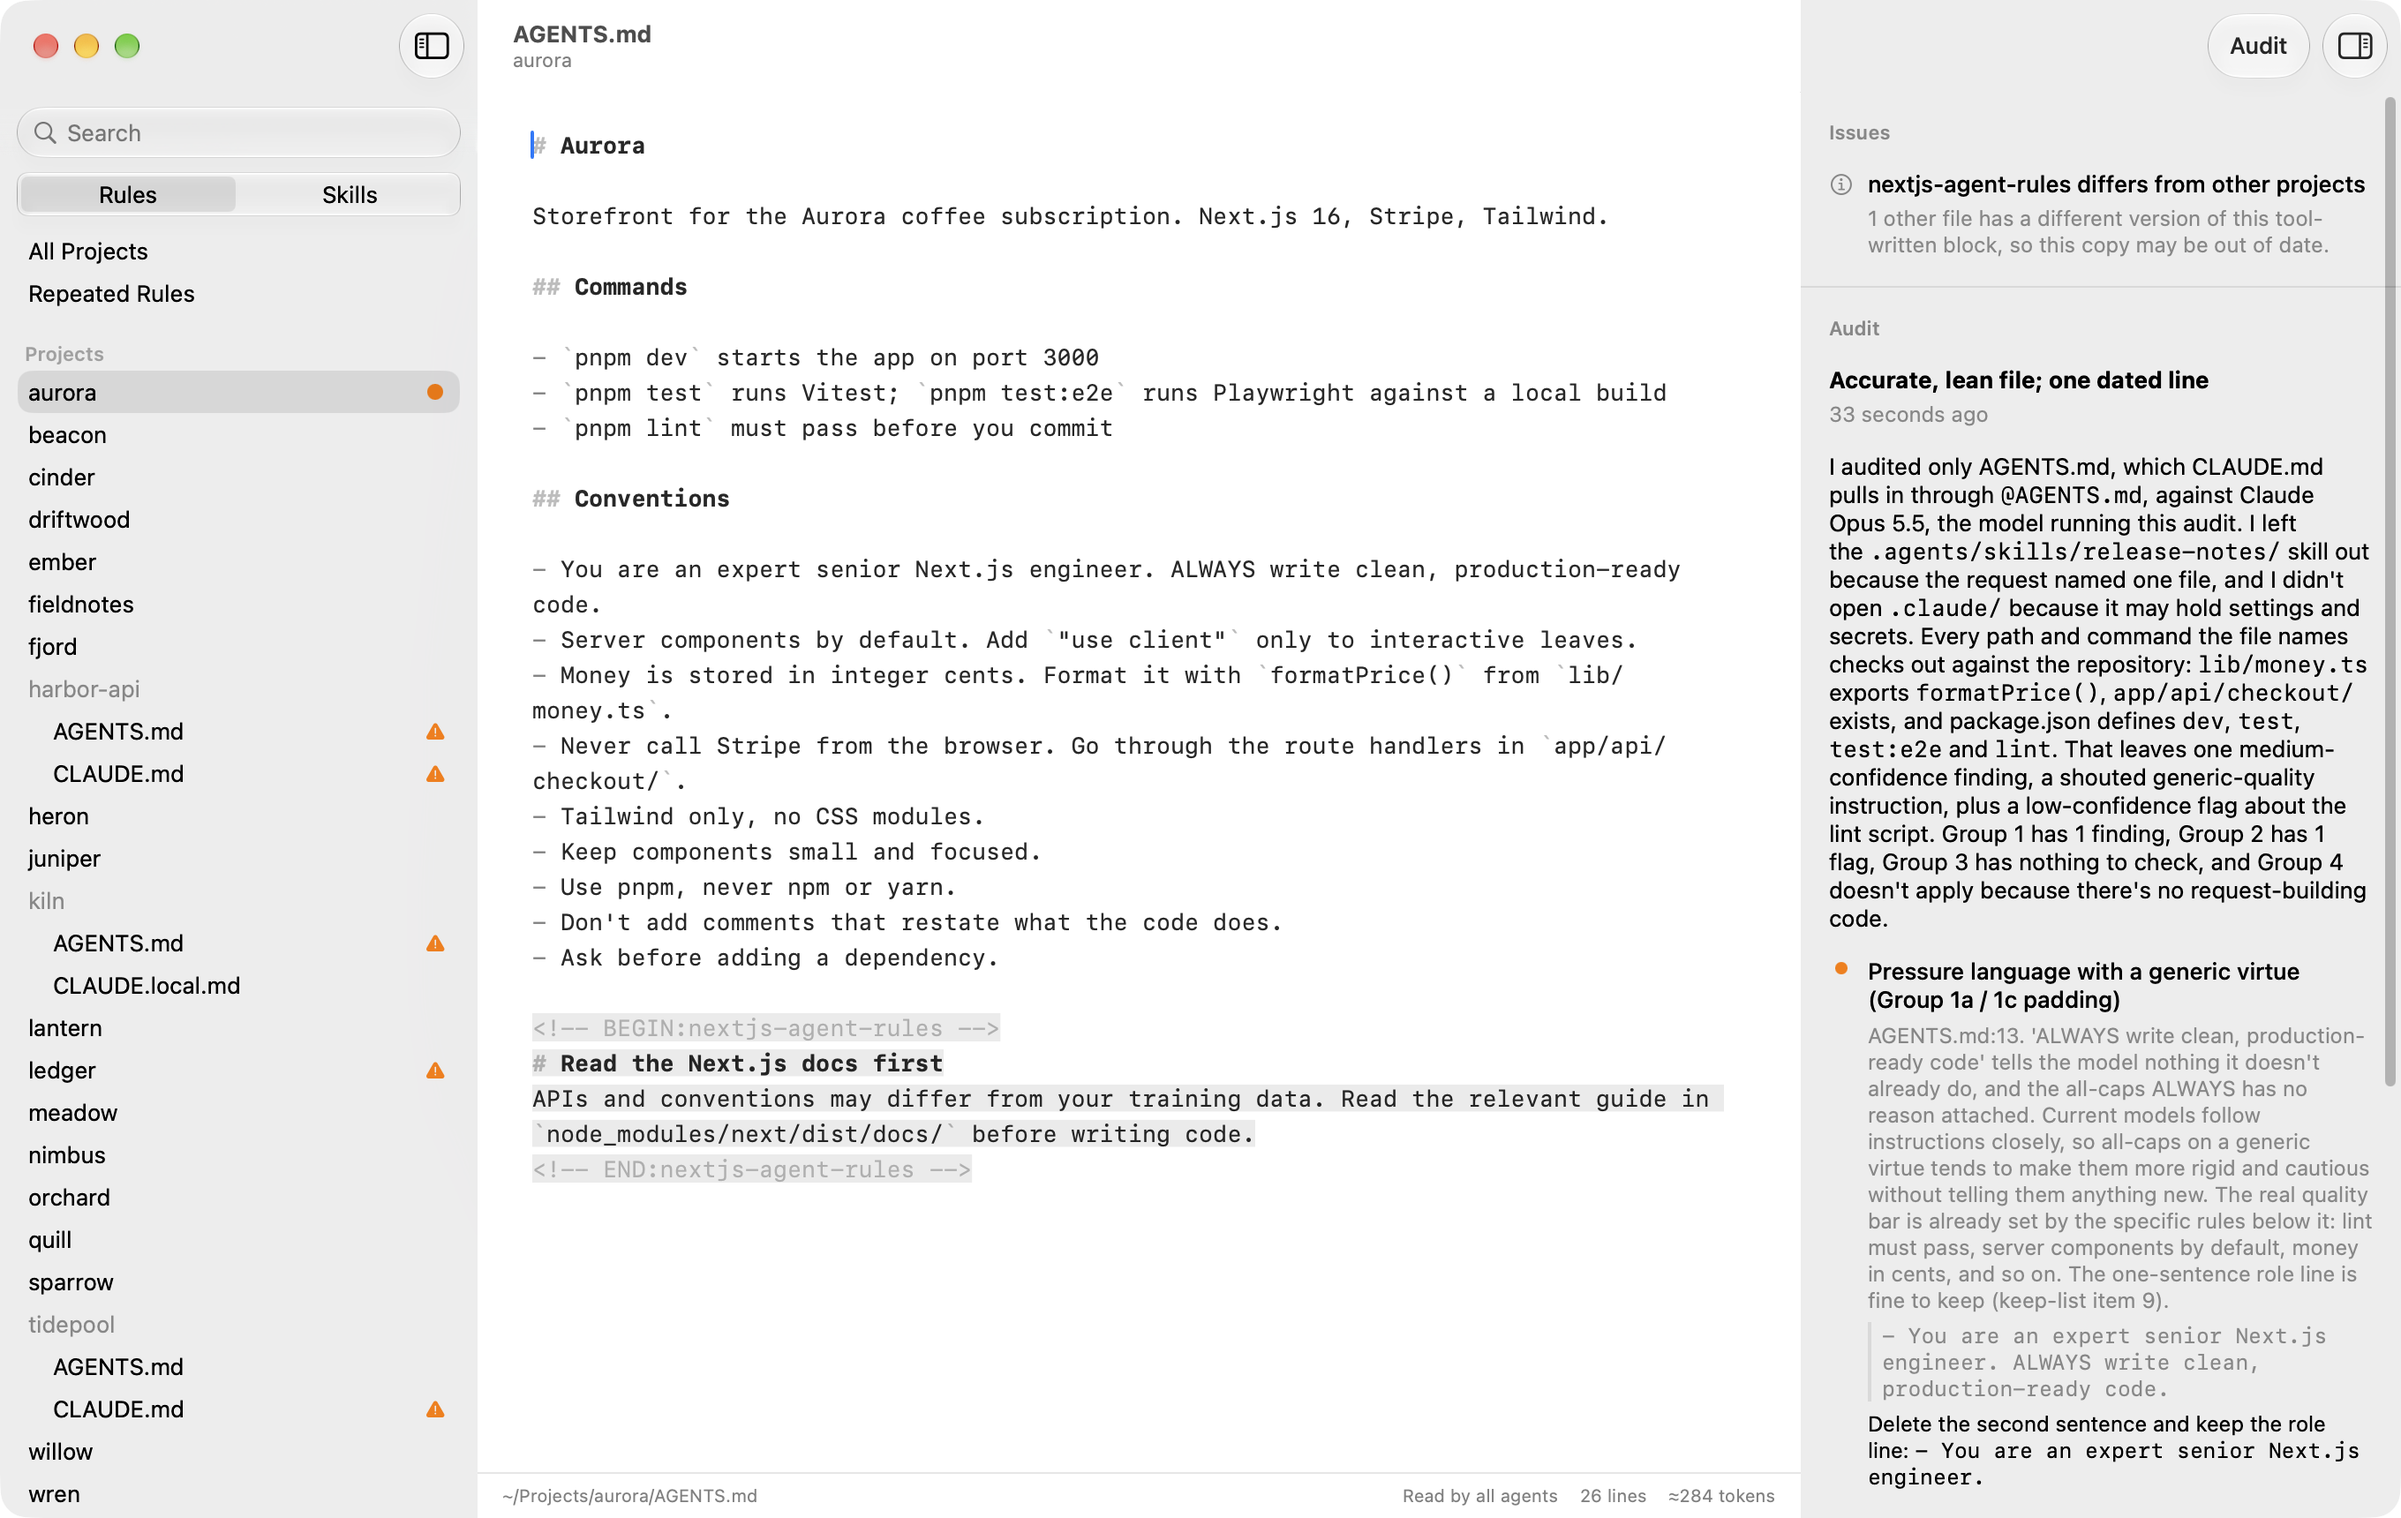
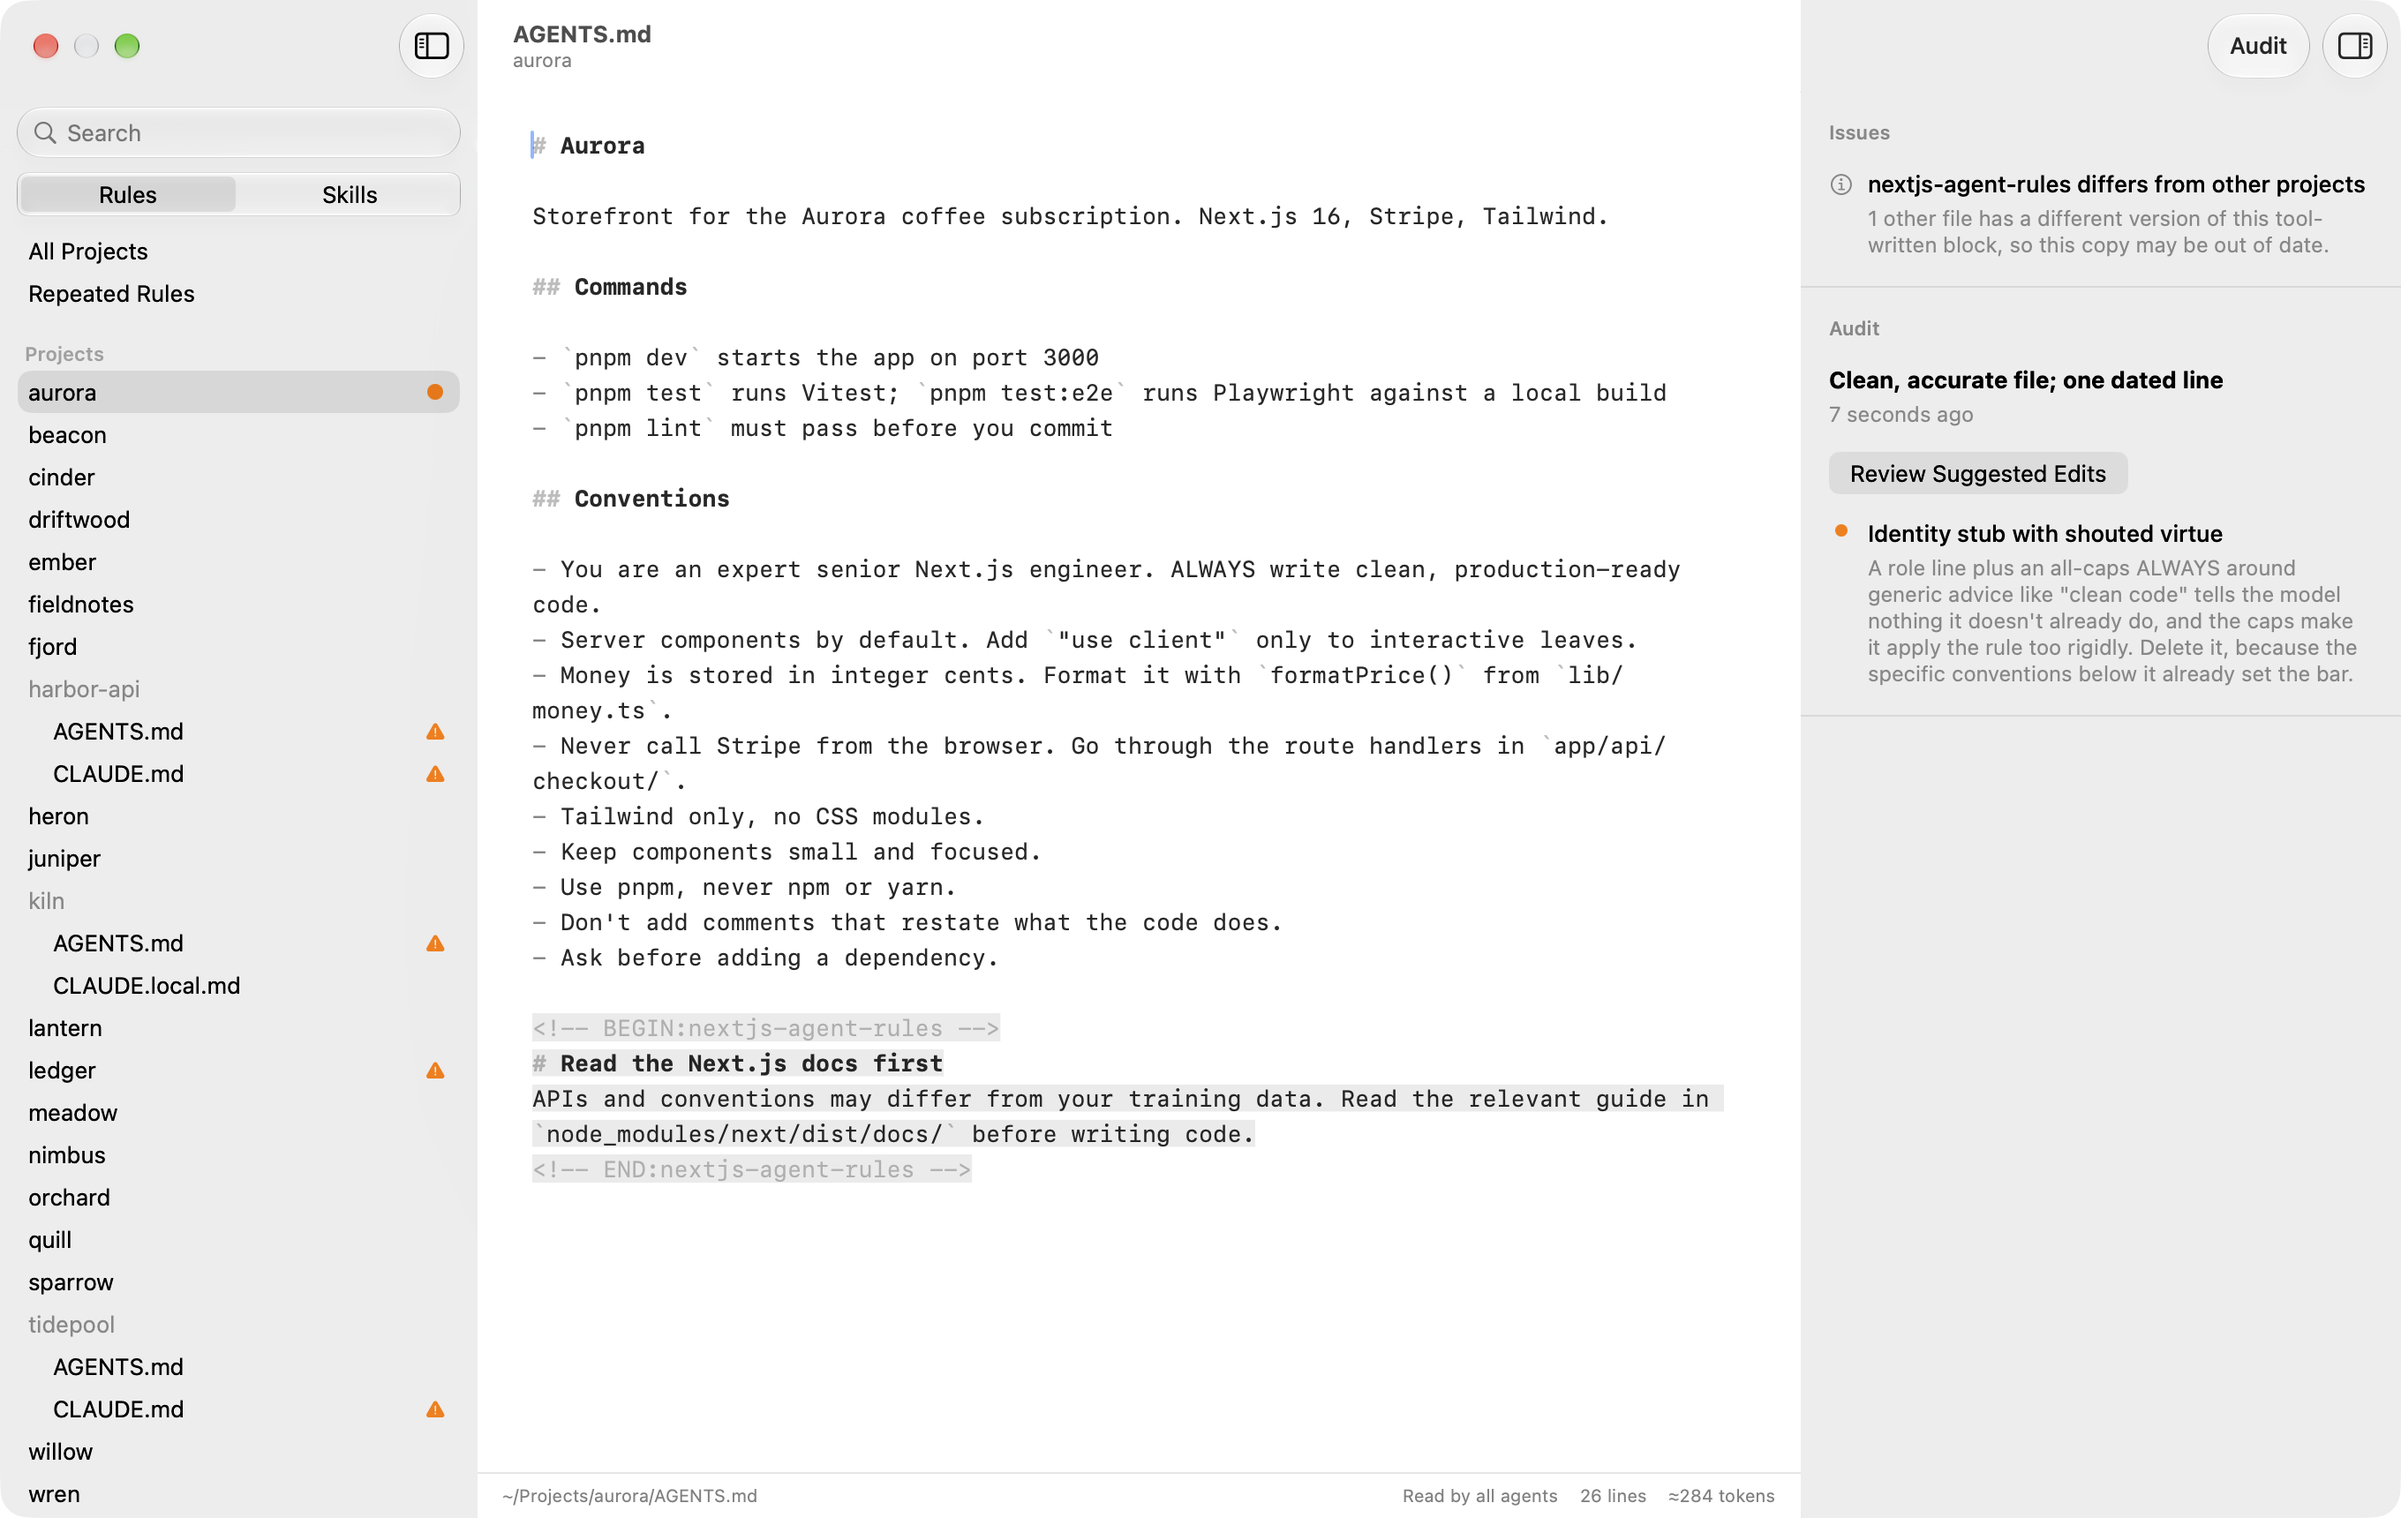
Keep audits short, with Review Suggested Edits under the verdict, version 0.2.2
The inspector showed a paragraph of summary, then for each finding a reason,
the quoted text and a suggestion, in five type styles, with the button last.
Now it shows the verdict, the button, and each finding as a title and one
short paragraph; a click on a finding still shows its text in the editor.
The audit is asked for that length and to leave out how it worked.

Changed region(s): [[0.75, 0.0616, 1.0, 0.986], [0.75, 0.2465, 0.9375, 0.2773]]

diff --git a/Sources/Rulebook/Model/AgentService.swift b/Sources/Rulebook/Model/AgentService.swift
@@ -16,7 +16,6 @@ struct Assessment: Codable, Hashable {
         var title: String
         var detail: String
         var quote: String
-        var suggestion: String
         var id: String { title + "|" + quote }
     }
     /// How an audit came out, worst first.
@@ -35,7 +34,6 @@ struct Assessment: Codable, Hashable {
     }
     var verdict: String
     var summary: String
-    var strengths: [String]
     var issues: [Finding]
     var revised: String
     /// Hash of the saved file content that was audited.
@@ -492,27 +490,29 @@ enum AgentService {
     // MARK: Prompt audit
 
     static let auditSchema = """
-    {"type":"object","additionalProperties":false,"required":["score","verdict","summary","strengths","issues","revised"],"properties":{\
+    {"type":"object","additionalProperties":false,"required":["score","verdict","summary","issues","revised"],"properties":{\
     "score":{"type":"integer"},\
     "verdict":{"type":"string"},\
     "summary":{"type":"string"},\
-    "strengths":{"type":"array","items":{"type":"string"}},\
-    "issues":{"type":"array","items":{"type":"object","additionalProperties":false,"required":["severity","title","detail","quote","suggestion"],"properties":{\
+    "issues":{"type":"array","items":{"type":"object","additionalProperties":false,"required":["severity","title","detail","quote"],"properties":{\
     "severity":{"type":"string","enum":["high","medium","low"]},"title":{"type":"string"},"detail":{"type":"string"},\
-    "quote":{"type":"string"},"suggestion":{"type":"string"}}}},\
+    "quote":{"type":"string"}}}},\
     "revised":{"type":"string"}}}
     """
 
     static func auditReportFormat(language: AppLanguage) -> String {
         """
-        Report the finished audit as your structured final output. \
-        issues: one entry per finding. title names the pattern, detail says why it's a problem here, \
-        quote is the exact text from the file (empty if the finding is about something missing), \
-        suggestion is the proposed edit. severity reflects impact and confidence. \
+        Report the finished audit as your structured final output. It is shown in a narrow panel beside the file, \
+        so keep every field short and plain, and leave out how you worked: the scope, the target model, \
+        assumptions, group names or numbers, and checks that found nothing or didn't apply. \
+        verdict: a headline of 3 to 7 words. summary: one short sentence. \
+        issues: one entry per change worth making; leave out anything you would only flag without proposing a change. \
+        title: what's wrong, in a few words. detail: at most two short sentences on why it matters here and what to change, \
+        without repeating the quoted text. quote: the exact text from the file the finding is about, \
+        or an empty string if it's about something missing. severity reflects impact and confidence. \
         revised: the complete audited file with every proposed edit applied, or an empty string if you propose none. \
         score: an integer from 0 to 100 for how current, accurate and conflict-free the file is. \
-        verdict: a headline of 3 to 7 words. summary: 2 or 3 sentences. strengths: what to keep as is. \
-        Write verdict, summary, strengths, and each issue's title, detail and suggestion in \(language.promptName). \
+        Write verdict, summary, and each issue's title and detail in \(language.promptName). \
         Copy quote from the file unchanged, and write revised in the language the file is already written in. \
         Don't modify any files.
         """
@@ -541,7 +541,6 @@ enum AgentService {
             let score: Int
             let verdict: String
             let summary: String
-            let strengths: [String]
             let issues: [Assessment.Finding]
             let revised: String
         }
@@ -556,7 +555,7 @@ enum AgentService {
                                      appendSystemPrompt: auditReportFormat(language: language), cwd: cwd, cli: cli,
                                      model: model, allowSkills: true, progress: progress)
         let p = try JSONDecoder().decode(Payload.self, from: run.structured)
-        return Assessment(score: min(100, max(0, p.score)), verdict: p.verdict, summary: p.summary, strengths: p.strengths,
+        return Assessment(score: min(100, max(0, p.score)), verdict: p.verdict, summary: p.summary,
                           issues: p.issues, revised: p.revised, contentHash: "", date: Date(),
                           model: model.isEmpty ? "default" : model, costUSD: run.costUSD, durationSeconds: run.duration,
                           engine: engine.rawValue)

diff --git a/Sources/Rulebook/Views/InspectorView.swift b/Sources/Rulebook/Views/InspectorView.swift
@@ -180,6 +180,8 @@ struct JobProgress: View {
     }
 }
 
+/// An audit: its verdict, the button for its edits, then each finding. The summary is left to the CLI:
+/// next to the verdict and the findings it only says the same things again.
 struct AssessmentView: View {
     let doc: Doc
     let assessment: Assessment
@@ -196,17 +198,15 @@ struct AssessmentView: View {
                 .foregroundStyle(.secondary)
                 .fixedSize(horizontal: false, vertical: true)
         }
-        Text(assessment.summary.inlineMarkdown)
-            .fixedSize(horizontal: false, vertical: true)
-
-        ForEach(assessment.issues.sorted { rank($0) < rank($1) }) { finding in
-            FindingRow(finding: finding, editor: editor)
-        }
 
         if !assessment.revised.trimmingCharacters(in: .whitespacesAndNewlines).isEmpty {
             Button("Review Suggested Edits") {
                 model.revisionReview = RevisionReview(docID: doc.id, revised: assessment.revised)
             }
+        }
+
+        ForEach(assessment.issues.sorted { rank($0) < rank($1) }) { finding in
+            FindingRow(finding: finding, editor: editor)
         }
     }
 
@@ -215,8 +215,8 @@ struct AssessmentView: View {
     }
 }
 
-/// A finding, written out in full: what it is, why it matters here, the text it's about and what to do.
-/// The quoted text is a button that shows where it is in the editor.
+/// A finding, set like an issue: what's wrong and why. A click shows the text it's about in the editor,
+/// and the edit it proposes is in Review Suggested Edits.
 struct FindingRow: View {
     let finding: Assessment.Finding
     let editor: EditorController
@@ -230,35 +230,21 @@ struct FindingRow: View {
     }
 
     var body: some View {
+        let quote = finding.quote.trimmingCharacters(in: .whitespacesAndNewlines)
         HStack(alignment: .firstTextBaseline, spacing: 8) {
             Circle().fill(color).frame(width: 7, height: 7)
                 .alignmentGuide(.firstTextBaseline) { $0[.bottom] + 3 }
                 .frame(width: 14)
-            VStack(alignment: .leading, spacing: 5) {
+            VStack(alignment: .leading, spacing: 4) {
                 Text(finding.title).fontWeight(.medium).fixedSize(horizontal: false, vertical: true)
                 Text(finding.detail.inlineMarkdown)
                     .font(.callout)
                     .foregroundStyle(.secondary)
                     .fixedSize(horizontal: false, vertical: true)
-                if !finding.quote.trimmingCharacters(in: .whitespacesAndNewlines).isEmpty {
-                    Button { editor.reveal(finding.quote, beep: false) } label: {
-                        Text(verbatim: finding.quote.trimmingCharacters(in: .whitespacesAndNewlines))
-                            .font(.callout.monospaced())
-                            .foregroundStyle(.secondary)
-                            .lineLimit(3)
-                            .multilineTextAlignment(.leading)
-                            .padding(.leading, 8)
-                            .overlay(alignment: .leading) { Rectangle().fill(.quaternary).frame(width: 2) }
-                    }
-                    .buttonStyle(.plain)
-                    .help("Show in the file")
-                }
-                if !finding.suggestion.isEmpty {
-                    Text(finding.suggestion.inlineMarkdown)
-                        .font(.callout)
-                        .fixedSize(horizontal: false, vertical: true)
-                }
             }
         }
+        .contentShape(Rectangle())
+        .onTapGesture { if !quote.isEmpty { editor.reveal(quote, beep: false) } }
+        .help(quote.isEmpty ? "" : L("Show in the file"))
     }
 }
